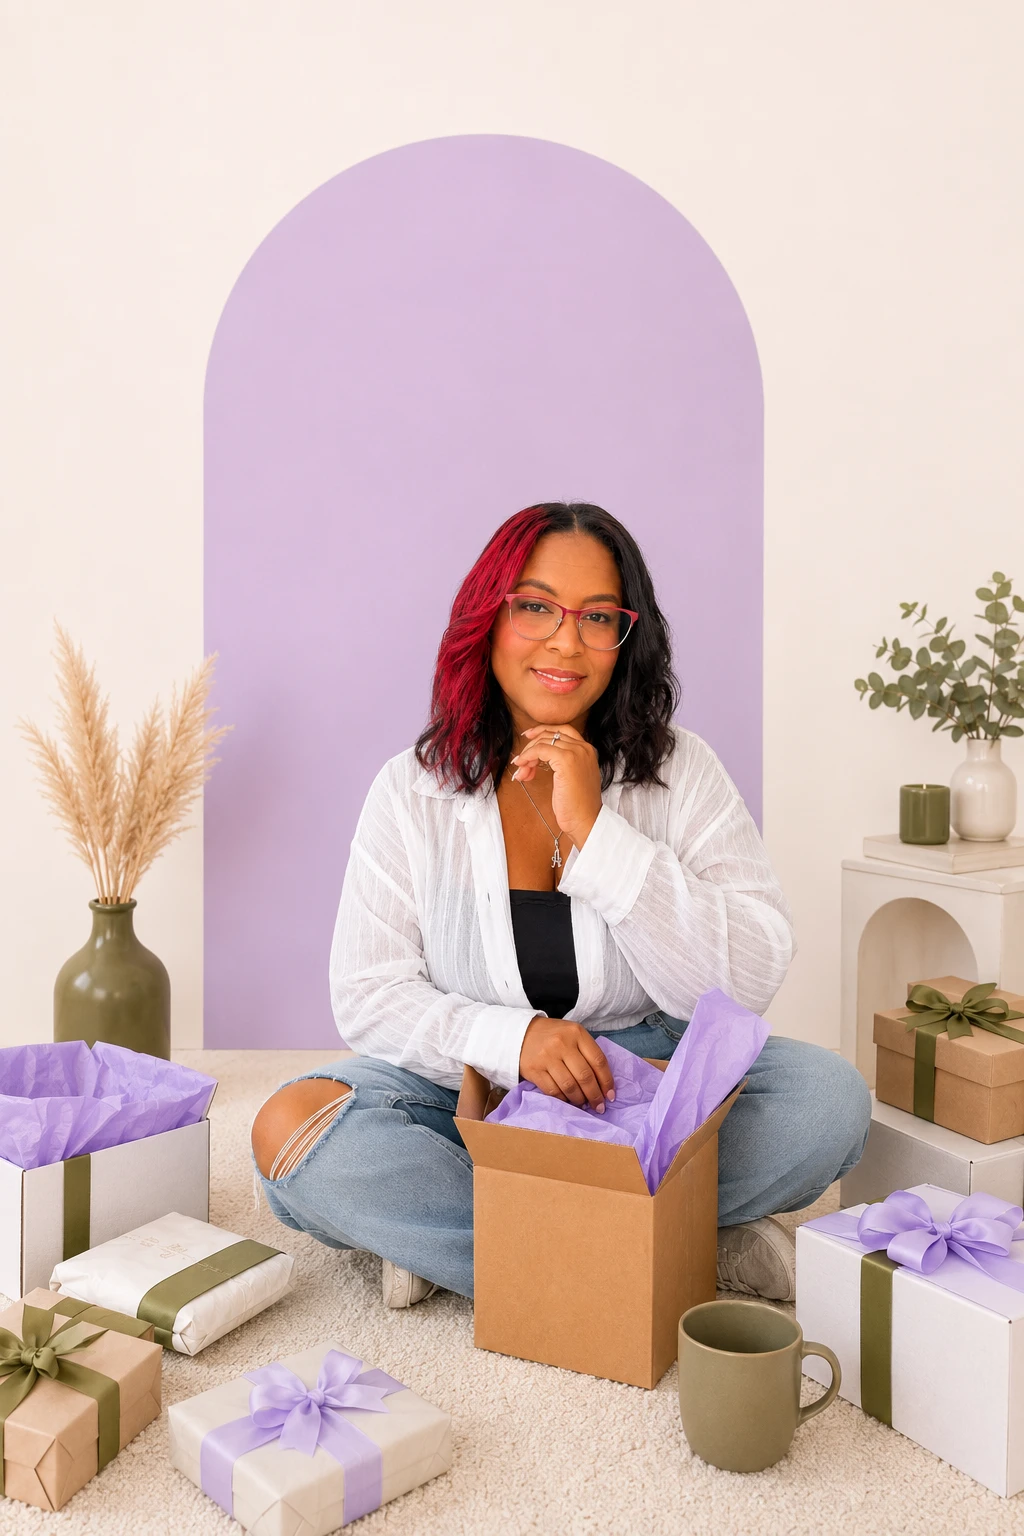
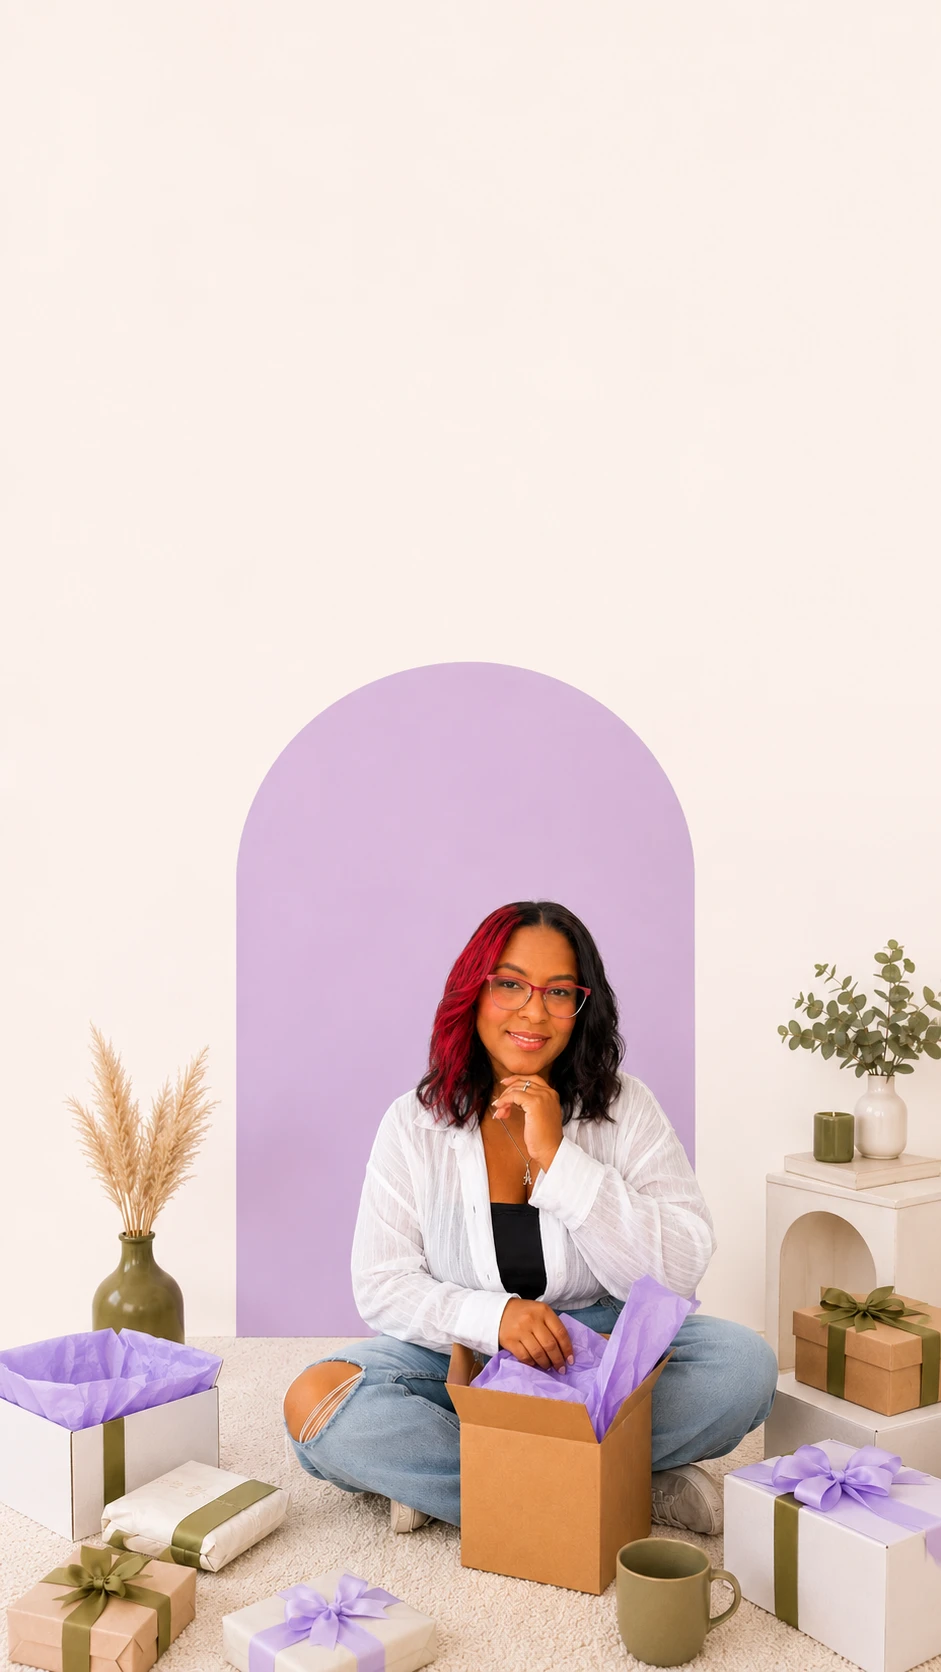
feat: mover ¿Hablamos?/Sígueme dentro de la foto de contacto
Usa la nueva foto (más alta, con más espacio vacío arriba) para
sobreponer ahí las tarjetas de contacto en vez de tenerlas por
separado arriba, aprovechando mejor el espacio. La tarjeta de
agradecimiento sigue sobrepuesta en el borde inferior.

diff --git a/app/page.tsx b/app/page.tsx
@@ -440,31 +440,32 @@ export default async function HomePage() {
               </p>
             </div>
 
-            <div className="mt-sp-9 grid gap-sp-8 md:grid-cols-[1fr,1fr]">
+            <div className="mt-sp-8 grid gap-sp-8 md:grid-cols-[1fr,1fr] md:items-start">
               <ContactForm />
-              <div className="flex flex-col gap-sp-6">
-                <ContactInfoCard title="¿Hablamos?" rows={hablamosRows} />
-                <ContactInfoCard title="Sígueme" rows={siguemeRows} />
-              </div>
-            </div>
 
-            <div className="mx-auto mt-sp-9 max-w-xl">
-              <div className="overflow-hidden rounded-lg">
+              <div className="relative overflow-hidden rounded-lg">
+                {/* eslint-disable-next-line @next/next/no-img-element */}
                 <img
                   src="/images/contact-photo.webp"
                   alt={`${hero?.name ?? "Crislia"} preparando un envío para su comunidad`}
-                  className="aspect-[2/3] w-full object-cover"
+                  className="w-full"
                 />
-              </div>
-              <div className="relative z-10 mx-sp-5 -mt-sp-7 flex flex-col items-center gap-sp-3 rounded-md border border-line bg-cream p-sp-6 text-center shadow-lg">
-                <span className="flex h-10 w-10 items-center justify-center rounded-full bg-lime/25 text-coral">
-                  <HeartIcon className="h-5 w-5" />
-                </span>
-                <p className="font-fraunces italic text-xl text-ink">Tu apoyo significa todo</p>
-                <p className="max-w-md text-sm text-ink/70">
-                  {settings?.supportMessage ??
-                    "Cada like, comentario y compartida me ayuda a seguir creando contenido que te sirve. ¡Gracias, de corazón!"}
-                </p>
+
+                <div className="absolute inset-x-sp-4 top-sp-5 flex flex-col gap-sp-4 sm:inset-x-sp-6">
+                  <ContactInfoCard title="¿Hablamos?" rows={hablamosRows} />
+                  <ContactInfoCard title="Sígueme" rows={siguemeRows} />
+                </div>
+
+                <div className="absolute inset-x-sp-5 bottom-sp-5 flex flex-col items-center gap-sp-2 rounded-md border border-line bg-cream/95 p-sp-5 text-center shadow-lg backdrop-blur-sm">
+                  <span className="flex h-9 w-9 items-center justify-center rounded-full bg-lime/25 text-coral">
+                    <HeartIcon className="h-4 w-4" />
+                  </span>
+                  <p className="font-fraunces italic text-lg text-ink">Tu apoyo significa todo</p>
+                  <p className="max-w-md text-xs text-ink/70">
+                    {settings?.supportMessage ??
+                      "Cada like, comentario y compartida me ayuda a seguir creando contenido que te sirve. ¡Gracias, de corazón!"}
+                  </p>
+                </div>
               </div>
             </div>
           </div>
